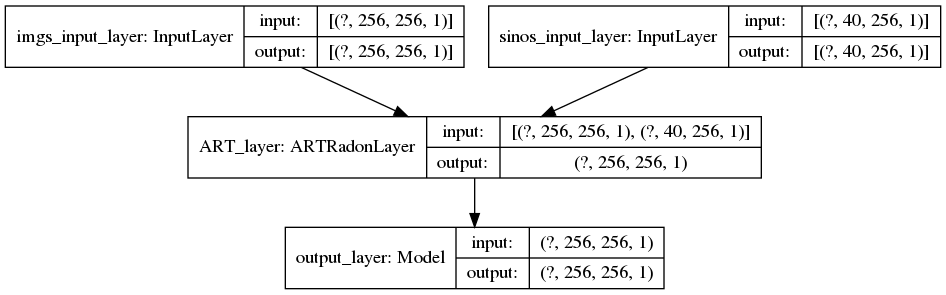
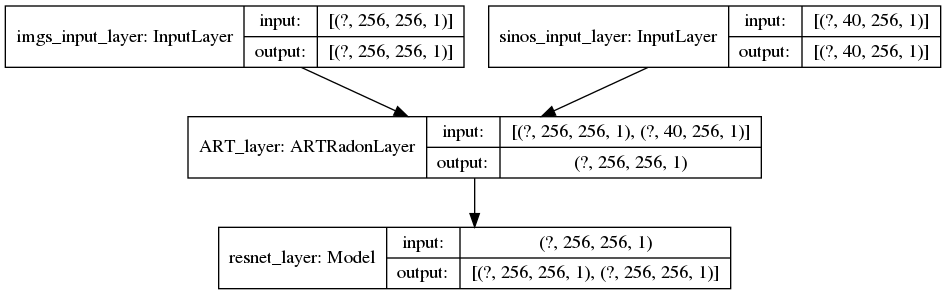
Added Radon loss layer.

diff --git a/LIDCArtifactReduction/neural_nets/iterative_ART_ResNet/IterativeARTResNet.py b/LIDCArtifactReduction/neural_nets/iterative_ART_ResNet/IterativeARTResNet.py
@@ -18,7 +18,7 @@ class IterativeARTResNet(ModelInterface):
         super().__init__(name=name)
         self._radon_geometry = radon_geometry
 
-        # If adding new options, then refactor and inject dependency.
+        # TODO: If adding new options, then refactor and inject dependency.
         self._conv_regularizer = 1e-4
         # Should be set based on geometry.
         alfa = 0.5 / 256
@@ -27,8 +27,8 @@ class IterativeARTResNet(ModelInterface):
         self._model = None
         self._imgs_input_layer = None
         self._sinos_input_layer = None
-        self._output_layer = None
-        self._difference_layer = None
+        self._output_layer_or_layers = None
+        
         self._build()
 
     imgs_input_name = 'imgs_input_layer'
@@ -46,7 +46,7 @@ class IterativeARTResNet(ModelInterface):
         art_layer = ARTRadonLayer(radon_transformation=self._radon_transformation, name='ART_layer')\
                         ([imgs_input_layer, sinos_input_layer])
 
-        # Refactor and inject dependency.
+        # TODO: Refactor and inject dependency.
         kernel_model = ResidualUNetFewBatchNorms(volume_img_width=self._radon_geometry.volume_img_width,
                                                  conv_regularizer=self._conv_regularizer,
                                                  input_name='kernel_input',
@@ -55,14 +55,14 @@ class IterativeARTResNet(ModelInterface):
                                                  output_difference_layer=True,
                                                  difference_name='kernel_difference')
 
-        output_layer_or_layers = kernel_model(art_layer)
 
+        output_layer_or_layers = kernel_model(art_layer)
         self._model = Model(inputs=[imgs_input_layer, sinos_input_layer], outputs=output_layer_or_layers)
 
         self._imgs_input_layer = imgs_input_layer
         self._sinos_input_layer = sinos_input_layer
-        self._output_layer = kernel_model.output_layer
-        self._difference_layer = kernel_model.difference_layer
+        self._output_layer_or_layers = output_layer_or_layers
+
 
     @property
     def imgs_input_layer(self):
@@ -73,13 +73,8 @@ class IterativeARTResNet(ModelInterface):
         return self._sinos_input_layer
 
     @property
-    def output_layer(self):
-        return self._output_layer
-
-    @property
-    def difference_layer(self):
-        """Returns output_layer - input_layer."""
-        return self._difference_layer
+    def output_layer_or_layers(self):
+        return self._output_layer_or_layers
 
     def compile(self):
         raise NotImplementedError()

diff --git a/LIDCArtifactReduction/neural_nets/iterative_ART_ResNet/IterativeARTResNetTraining.py b/LIDCArtifactReduction/neural_nets/iterative_ART_ResNet/IterativeARTResNetTraining.py
@@ -22,8 +22,7 @@ class IterativeARTResNetTraining(ModelInterface):
     def _build(self):
         target_imgs_input_layer = self._target_model.imgs_input_layer
         target_sinos_input_layer = self._target_model.sinos_input_layer
-        target_imgs_output_layer = self._target_model.output_layer
-        target_difference_layer = self._target_model.difference_layer
+        target_imgs_output_layer, target_difference_layer = self._target_model.output_layer_or_layers
 
         radon_layer = ForwardRadonLayer(radon_transformation=self._radon_transformation,
                                         name=IterativeARTResNetTraining.sinos_output_name)\

diff --git a/LIDCArtifactReduction/neural_nets/residual_UNet/residual_UNet_abstract.py b/LIDCArtifactReduction/neural_nets/residual_UNet/residual_UNet_abstract.py
@@ -120,7 +120,7 @@ class ResidualUNetAbstract(ModelInterface):
         func = lambda x: conv(upsampling(x))
         return func
 
-    def _difference_layer(self):
+    def get_difference_layer(self):
         return Conv2D(filters=1, kernel_size=(1, 1), padding='same',
                       kernel_initializer=self._conv_layer_initalizer,
                       kernel_regularizer=self._conv_layer_regualizer,

diff --git a/LIDCArtifactReduction/neural_nets/residual_UNet/residual_UNet_few_batch_norms.py b/LIDCArtifactReduction/neural_nets/residual_UNet/residual_UNet_few_batch_norms.py
@@ -75,7 +75,7 @@ class ResidualUNetFewBatchNorms(ResidualUNetAbstract):
         u0 = self._conv_k3_activation(64)(u0)
         u0 = self._conv_k3_activation(64)(u0)
 
-        difference_layer = self._difference_layer(u0)
+        difference_layer = self.get_difference_layer()(u0)
         output_layer = Add(name=self._output_name)([input_layer, difference_layer])
 
         if self._output_difference_layer:
